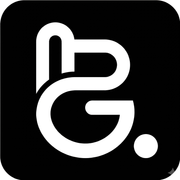
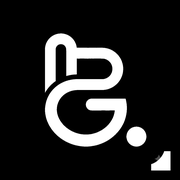
로고 아이콘 흰 배경 제거, 게시글 DM 공유 기능 추가, 다크모드 포인트색을 그레이로 변경
- icon-32/180/192/512.png와 logo-source.png에 남아있던 흰색 여백을 제거하고
  꽉 찬 정사각형으로 재생성(연결성 기반으로 바깥 배경만 채우고 글자는 보존)
- 게시글 액션바의 공유 버튼을 브라우저 공유 대신 앱 내 DM 공유로 교체
  (openSharePostModal/confirmSharePostToDm, 사진 첨부는 dm-photos로 함께 전달)
- 다크모드 --blue/--blue-focus/--blue-dark를 블루에서 그레이 톤으로 교체
  (라이트모드는 기존 블루 유지)

Changed region(s): [[0.1944, 0.1111, 1.0, 1.0], [0.0, 0.0, 1.0, 1.0]]

diff --git a/index.html b/index.html
@@ -34,8 +34,14 @@
      테마 변수를 그대로 써서 다크모드·베이지 테마에서도 자연스럽게 어울리게 함. */
   --ig-blue:#0095f6;
 }
+/* 다크모드는 원래 라이트모드와 같은 블루 포인트색을 쓰고 있었는데(화이트-블루/블랙-블루),
+   요청으로 다크모드만 블루 대신 그레이 톤 포인트색(블랙-그레이)으로 교체함(2026-08-03).
+   라이트모드는 그대로 화이트-블루 유지. 기존 블루(#0a84ff)와 대비(흰 글자/배경 대비)가
+   거의 같은 밝기의 회색을 골라서(대비 계산: 흰 글자 대비 ~3.6, 배경 대비 ~4.7~5.1로 기존과
+   동급) 버튼/링크 가독성이 떨어지지 않게 함. --blue-dark는 현재 코드에서 실제로 쓰이는 곳이
+   없지만(사용처 없음, grep 확인) 톤은 맞춰서 같이 바꿔둠. */
 :root[data-theme="dark"] {
-  --blue:#0a84ff; --blue-focus:#409cff; --blue-dark:#5ac8fa;
+  --blue:#86868b; --blue-focus:#a0a0a5; --blue-dark:#c4c4c9;
   --ink:#f5f5f7; --ink-80:#d1d1d6; --ink-48:#98989d;
   --green: #34d399; --green-light: rgba(52, 211, 153, .15); --green-dark: #a7f3d0;
   --canvas:#1c1c1e; --parchment:#131315; --pearl:#242426;
@@ -2374,6 +2380,19 @@ input,textarea,select{font-family:inherit;font-size:1rem;outline:none}
     <div class="modal-actions">
       <button class="btn-ghost" onclick="closeInviteDmModal()">취소</button>
       <button class="btn-primary" onclick="inviteDmParticipants()">초대하기</button>
+    </div>
+  </div>
+</div>
+
+<!-- 게시글을 DM으로 공유하는 모달 — 이미 대화 중인 방 목록에서 골라 바로 전송 -->
+<div class="modal-overlay" id="share-dm-modal">
+  <div class="modal">
+    <button class="modal-close" onclick="closeSharePostModal()">×</button>
+    <div class="modal-title">DM으로 공유</div>
+    <div class="dm-participant-list" id="share-dm-room-list"></div>
+    <div class="auth-error" id="share-dm-error"></div>
+    <div class="modal-actions">
+      <button class="btn-ghost" onclick="closeSharePostModal()">취소</button>
     </div>
   </div>
 </div>
@@ -6874,7 +6893,7 @@ function renderPost(p,type,comments=[]){
       <button class="post-action-btn" onclick="toggleComments('${p.id}')" title="댓글">
         <svg viewBox="0 0 24 24"><path d="M20.656 17.008a9.993 9.993 0 1 0-3.59 3.615L21 21l-1.192-3.415z"></path></svg>
       </button>
-      <button class="post-action-btn" onclick="sharePost('${p.id}')" title="공유">
+      <button class="post-action-btn" onclick="openSharePostModal('${p.id}')" title="DM으로 공유">
         <svg viewBox="0 0 24 24"><line x1="22" y1="2" x2="11" y2="13"></line><polygon points="22 2 15 22 11 13 2 9 22 2"></polygon></svg>
       </button>
     </div>
@@ -6908,21 +6927,73 @@ function closeAllPostMenus(){
 }
 document.addEventListener('click',closeAllPostMenus);
 
-// 공유(✈) — 백엔드/스키마 변경 없이 브라우저 기본 공유 기능만 사용. 지원 안 되는
-// 브라우저(대부분의 데스크톱)에서는 본문을 클립보드에 복사하는 것으로 대신한다.
-async function sharePost(postId){
-  const contentEl=document.getElementById(`post-content-${postId}`);
-  const text=contentEl?contentEl.textContent:'';
-  if(navigator.share){
-    try{await navigator.share({title:'부광고 3-1 대시보드',text})}catch(e){/* 사용자 취소 등은 무시 */}
+// 공유(✈) — 어플 내 DM으로 게시글을 바로 보낼 수 있게 함(2026-08-03, 요청: "게시물 공유를
+// 어플 내 dm에서 가능하게 해줘"). 이미 대화 중인 방 목록(dmRooms)에서 골라 전송하는 방식 —
+// "새 대화 시작"까지 이 모달에서 겸하지는 않음(이미 DM 페이지에 있는 기능이라 중복 UI를
+// 피함). 새 대화가 필요하면 DM 페이지에서 먼저 시작한 뒤 다시 공유하면 됨.
+let shareDmPostId=null;
+function openSharePostModal(postId){
+  closeAllPostMenus();
+  shareDmPostId=postId;
+  document.getElementById('share-dm-error').style.display='none';
+  renderShareDmRoomList();
+  document.getElementById('share-dm-modal').classList.add('open');
+  // DM 페이지를 아직 한 번도 안 열었으면 dmRooms가 비어있을 수 있어 최신으로 다시 불러온다.
+  loadDmRooms().then(renderShareDmRoomList);
+}
+function closeSharePostModal(){
+  document.getElementById('share-dm-modal').classList.remove('open');
+  shareDmPostId=null;
+}
+function renderShareDmRoomList(){
+  const wrap=document.getElementById('share-dm-room-list');
+  if(!wrap)return;
+  if(!dmRooms.length){
+    wrap.innerHTML='<div style="text-align:center;padding:24px;color:var(--ink-48);font-size:13px">아직 대화가 없어요<br>DM에서 먼저 대화를 시작해주세요</div>';
     return;
   }
-  try{
-    await navigator.clipboard.writeText(text);
-    toast('내용이 복사되었습니다 ✓');
-  }catch(e){
-    toast('이 브라우저는 공유하기를 지원하지 않아요');
+  wrap.innerHTML=dmRooms.map(r=>{
+    const avatarHtml=r.avatarUrl?`<img src="${r.avatarUrl}" alt="">`:(r.is_group?'👥':escHtml((r.displayName||'?')[0]));
+    return`<div class="dm-room-item" onclick="confirmSharePostToDm('${r.id}')">
+      <div class="dm-room-avatar">${avatarHtml}</div>
+      <div class="dm-room-info"><div class="dm-room-name">${escHtml(r.displayName)}</div></div>
+    </div>`;
+  }).join('');
+}
+let sharingToDm=false;
+async function confirmSharePostToDm(roomId){
+  const postId=shareDmPostId;
+  if(!postId||sharingToDm)return;
+  sharingToDm=true;
+  const {data:post,error}=await sb.from('posts').select('*').eq('id',postId).single();
+  if(error||!post){toast('게시글을 찾을 수 없어요');sharingToDm=false;return}
+  const authorName=boardProfileMap[post.student_id]?.display_name||post.author_name;
+  const isVideoAttachment=post.image_url&&(/\/vid_[^/]*$/.test(post.image_url)||(!/\/img_[^/]*$/.test(post.image_url)&&/\.(mp4|webm|mov|m4v|ogg|ogv|avi|wmv|mkv|3gp|flv|mpeg|mpg)(\?|$)/i.test(post.image_url)));
+  // DM 메시지 렌더링은 항상 <img>로만 보여주므로(동영상 재생 지원 없음), 동영상 첨부 글은
+  // 사진을 옮기지 않고 안내 문구만 붙인다 — 깨진 이미지로 보이는 것보다 낫다.
+  let imagePath=null;
+  if(post.image_url && !isVideoAttachment){
+    try{
+      const res=await fetch(post.image_url);
+      const blob=await res.blob();
+      const ext=(post.image_url.split('.').pop()||'jpg').split('?')[0];
+      const path=`${roomId}/shared_${currentStudentId}_${Date.now()}_${Math.random().toString(36).slice(2)}.${ext}`;
+      const {error:upErr}=await sb.storage.from('dm-photos').upload(path,blob);
+      if(!upErr)imagePath=path;
+    }catch(e){/* 사진 전달에 실패해도 텍스트 공유는 계속 진행 */}
   }
+  const videoNote=isVideoAttachment?'\n(동영상 첨부됨 — 게시판에서 확인해주세요)':'';
+  const content=`📌 게시글 공유\n${authorName}: ${post.content}${videoNote}`;
+  const {data:msg,error:sendErr}=await sb.from('dm_messages').insert({
+    room_id:roomId,sender_student_id:currentStudentId,sender_user_id:currentUser.id,
+    sender_name:currentName||currentStudentId+'번',content,image_url:imagePath
+  }).select().single();
+  sharingToDm=false;
+  if(sendErr){toast('공유 실패: '+sendErr.message);return}
+  closeSharePostModal();
+  toast('DM으로 공유했어요 ✓');
+  triggerNotify('dm-message',{message_id:msg.id});
+  await loadDmRooms();
 }
 
 function toggleComments(postId){

diff --git a/sw.js b/sw.js
@@ -5,7 +5,7 @@
 // 한다(서비스 워커 업데이트는 이 파일의 바이트가 달라졌을 때만 트리거됨) — 그래서 index.html에
 // 의미 있는 변경이 생겨 배포할 때마다 이 값을 같이 올려서, 새 버전 배포 시 이 파일도 함께
 // 바뀌게 만든다. 값 자체는 로직에서 안 쓰고 순전히 "새 버전 신호"용.
-const SW_BUILD = '2026-08-03-1';
+const SW_BUILD = '2026-08-03-2';
 
 // index.html이 "새로고침하기" 배너에서 새 워커를 즉시 활성화시키려고 보내는 메시지
 self.addEventListener('message', (event) => {

diff --git a/PROJECT_CONTEXT.md b/PROJECT_CONTEXT.md
@@ -218,6 +218,40 @@
 - 별도의 패키지 매니저/빌드 도구 없음 (node_modules, package.json 없음)
 
 ## 최근 변경사항 (최신순)
+- 2026-08-03 (2차): 세 가지 별개 개선. `sw.js`의 `SW_BUILD`도 `2026-08-03-2`로 올림.
+  - **앱 로고 아이콘의 흰색 배경(누끼 미처리) 수정** (제보: "앱 로고에 약간 문제가 있는데
+    누끼가 안 따진건지 흰색 테두리가 다 보여") — `logo-source.png`/`icon-32/180/192.png`가
+    전부 알파 채널 없는 RGB PNG였고, 실제 로고(검은 둥근 사각형 타일)가 1024×1024 캔버스
+    중앙에 흰 여백(약 84px)을 두고 작게 들어있어서 어디서든(로그인 화면의
+    `.auth-logo-mark`, 파비콘, 홈 화면 아이콘) 흰 테두리처럼 보였음. 단순 트림이 아니라
+    scipy `ndimage.label`로 "바깥쪽(이미지 테두리와 연결된) 흰 영역"과 "안쪽에 갇힌 흰
+    글자"를 연결성 기준으로 구분해서(안 그러면 글자까지 함께 사라짐), 바깥쪽만 타일과 같은
+    검정으로 채워 넣어 1024×1024 전체를 꽉 채우는 형태로 만듦. 우하단의 접힌 모서리 장식
+    (회색 톤)은 별도 안전 영역(860~970px)으로 지정해서 보존. 투명 배경(알파) 대신 **완전
+    불투명한 정사각형**으로 만든 이유: apple-touch-icon은 알파 투명을 제대로 지원 안 해서
+    (iOS가 배경을 검정으로 강제 채우는 등) 오히려 다른 아티팩트가 생길 수 있음 — 각
+    플랫폼(iOS/Android/브라우저 파비콘)이 알아서 코너를 마스킹하게 두는 쪽이 더 안전.
+    `logo-source.png` 자체도 고친 버전으로 교체(향후 아이콘 재생성 시 같은 버그가 다시
+    안 생기게).
+  - **게시글을 어플 내 DM으로 공유하는 기능 추가** (요청: "게시물 공유를 어플 내 dm에서
+    가능하게 해줘") — 인스타그램 리디자인(위 1차 항목)에서 액션바에 넣었던 공유(✈)
+    아이콘이 원래는 `navigator.share()`/클립보드 복사였는데, 이걸 어플 내 DM 공유로
+    교체함. `openSharePostModal(postId)`가 이미 대화 중인 방 목록(`dmRooms`, DM 페이지를
+    아직 안 열었으면 새로 조회)을 보여주고, 방을 고르면 `confirmSharePostToDm(roomId)`가
+    "📌 게시글 공유\n{작성자}: {내용}" 형식으로 `dm_messages`에 바로 insert함. 사진 첨부
+    게시글은 `board-photos`(공개 버킷) URL을 `fetch()`로 받아 `dm-photos`(비공개 버킷,
+    방별 폴더)로 그대로 올려 사진도 함께 전달되게 함 — 동영상 첨부는 DM 메시지가 항상
+    `<img>`로만 렌더링돼서(동영상 재생 미지원) 사진을 옮기지 않고 "동영상 첨부됨" 안내
+    문구만 붙임. "새 대화 시작"은 이 모달에 넣지 않음(DM 페이지에 이미 있는 기능이라
+    중복을 피함) — 대화가 없으면 DM에서 먼저 시작해야 공유 가능.
+  - **다크모드 포인트색을 블루에서 그레이로 교체** (요청: "원래 화이트-블루(라이트)/
+    블랙-블루(다크)에서 다크모드일때 블랙-그레이로 색 조합을 바꿔줘") — 라이트모드는
+    그대로 두고 `:root[data-theme="dark"]`의 `--blue`/`--blue-focus`/`--blue-dark`만
+    `#0a84ff`/`#409cff`/`#5ac8fa`(블루)에서 `#86868b`/`#a0a0a5`/`#c4c4c9`(그레이)로 교체.
+    이 프로젝트는 포인트색을 전부 `--blue` 변수 하나로 관리해서(버튼/링크/액티브 상태 등)
+    이 한 줄만 바꾸면 다크모드 전체에 자연스럽게 퍼짐 — 베이지 테마가 `--blue`를 오렌지로
+    바꾼 것과 동일한 패턴. 새 회색은 기존 블루(#0a84ff)와 대비율이 거의 같도록(흰 글자
+    대비 ~3.6, 어두운 배경 대비 ~4.7~5.1) 골라서 가독성이 떨어지지 않게 함.
 - 2026-08-03: **게시판(자유/질문/버그) 피드 카드를 인스타그램 스타일로 리디자인** (요청:
   "게시판파트 ui를 좀 바꾸고 싶어, 인스타그램처럼" + 색상/타이포/컴포넌트 스펙 상세 전달).
   자유/질문/버그제보 세 게시판이 전부 `renderPost()` 하나를 공유해서 렌더링하므로, 이 함수와
